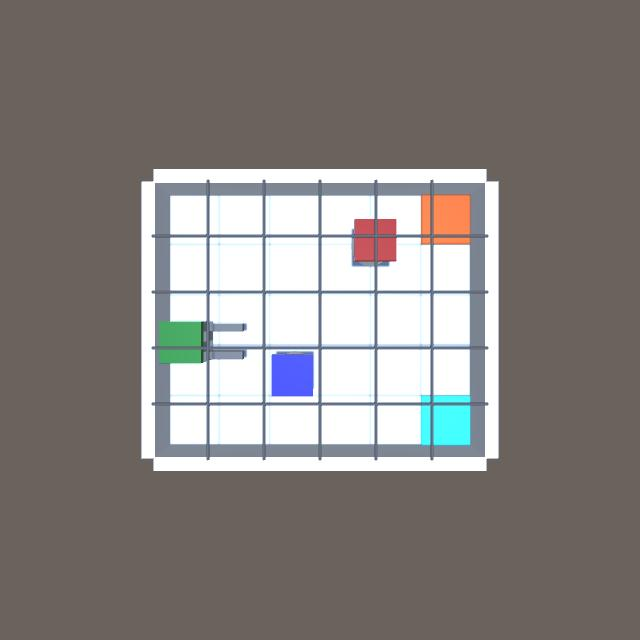
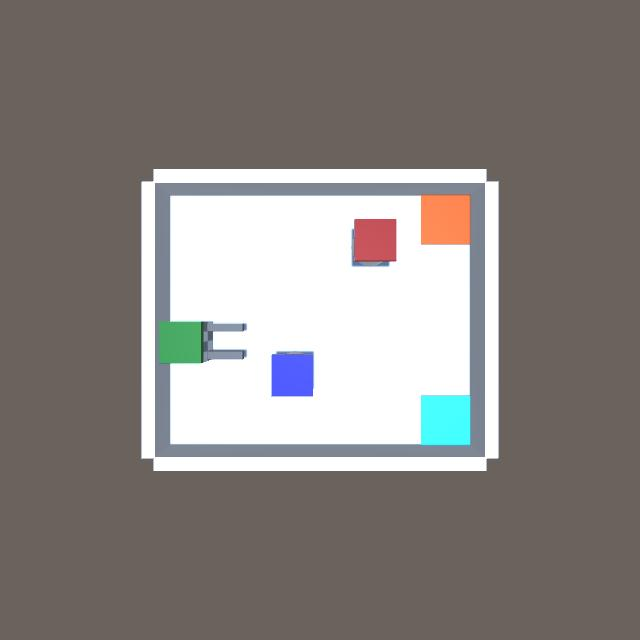
그리드 없는 이미지 추가

Changed region(s): [[0.25, 0.2812, 0.75, 0.7188]]

diff --git a/sm4/test4.py b/sm4/test4.py
@@ -16,7 +16,7 @@ import matplotlib.pyplot as plt
 import cv2
 
 game = "sm4.exe"
-env_path = "./build_with_grid/" + game
+env_path = "./build/" + game
 save_picture_path = "./made_data/"
 channel = EngineConfigurationChannel()
 channel.set_configuration_parameters(time_scale=1.0, target_frame_rate=60, capture_frame_rate=60)
